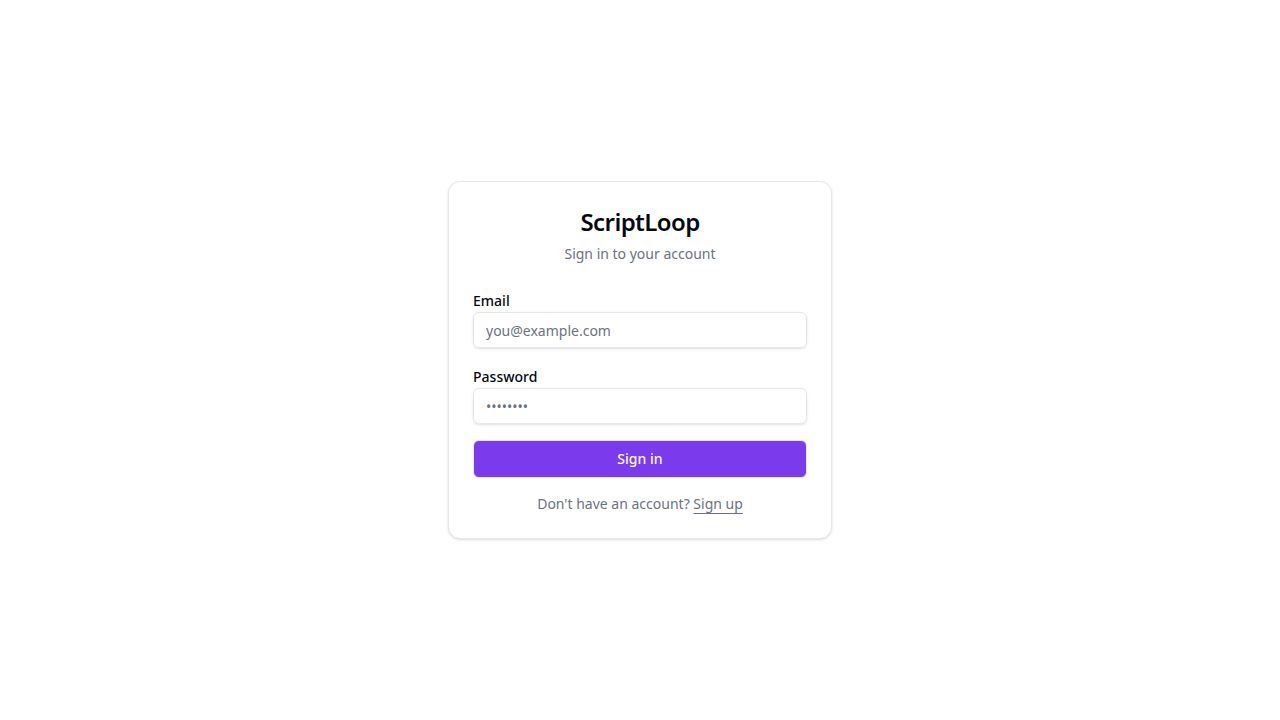
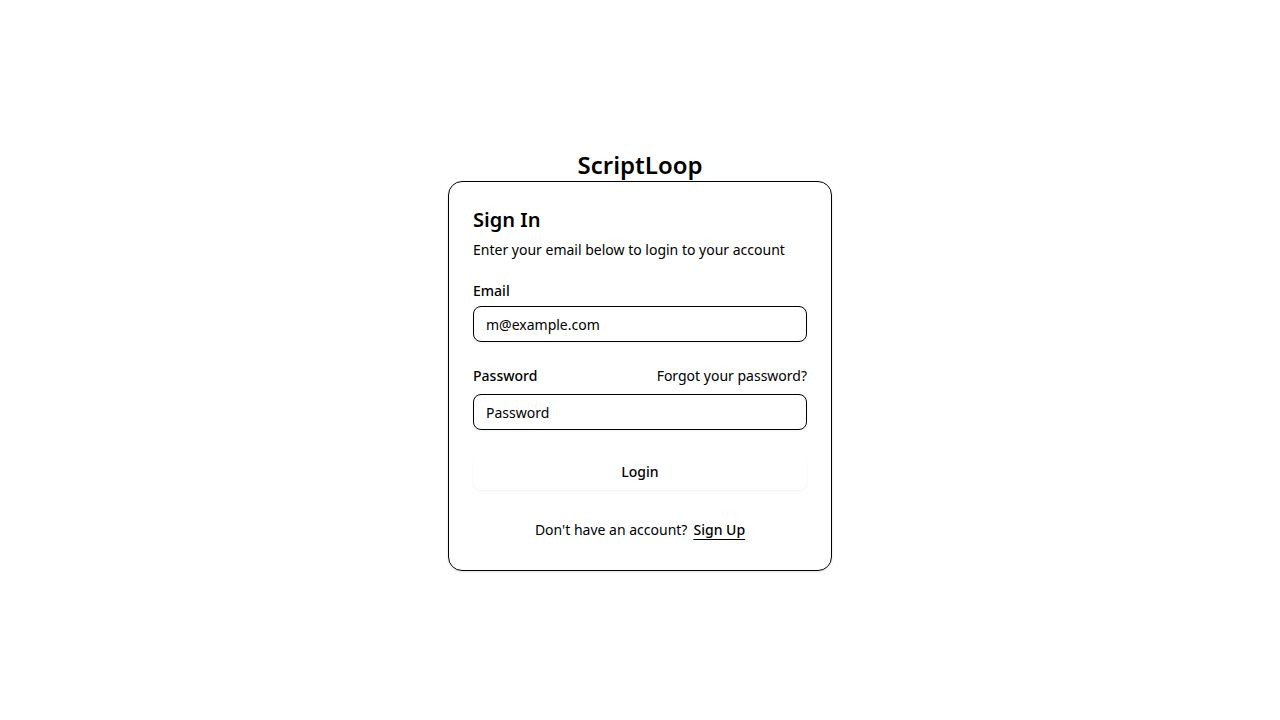
Integrate real audio generation into script editor and database
Replace mocked audio generation with a real API call, update script data with audio information, and implement server-side functions for script management.

Replit-Commit-Author: Agent
Replit-Commit-Session-Id: b05ca157-8bab-4980-8663-b2cbb9ad39b6
Replit-Commit-Checkpoint-Type: full_checkpoint
Replit-Commit-Event-Id: 8c46d16f-43e9-416d-93b9-9edb2c0b755c
Replit-Commit-Screenshot-Url: https://storage.googleapis.com/screenshot-production-us-central1/aa8b9d02-3ed9-4402-acee-3606e907f08d/b05ca157-8bab-4980-8663-b2cbb9ad39b6/UbMCKgj

diff --git a/artifacts/scriptloop/netlify/functions/audio.ts b/artifacts/scriptloop/netlify/functions/audio.ts
@@ -1,17 +1,4 @@
-import { S3Client, PutObjectCommand } from "@aws-sdk/client-s3";
-import { and, eq } from "drizzle-orm";
-import { db } from "../../src/db/index";
-import { scripts } from "../../src/db/schema";
-import { textToSpeech, getVoices } from "../../src/lib/elevenlabs";
-
-const s3 = new S3Client({
-  region: "auto",
-  endpoint: `https://${process.env.R2_ACCOUNT_ID}.r2.cloudflarestorage.com`,
-  credentials: {
-    accessKeyId: process.env.R2_ACCESS_KEY_ID ?? "",
-    secretAccessKey: process.env.R2_SECRET_ACCESS_KEY ?? "",
-  },
-});
+import { getVoices } from "../../src/lib/elevenlabs";
 
 async function getSession(
   req: Request,
@@ -59,78 +46,6 @@ export default async (req: Request) => {
       const msg = e instanceof Error ? e.message : "Unknown error";
       return json({ error: msg }, 502);
     }
-  }
-
-  if (url.pathname.endsWith("/generate") && req.method === "POST") {
-    const body = (await req.json()) as {
-      scriptId: number;
-      voiceId: string;
-    };
-
-    if (!body.scriptId || !body.voiceId) {
-      return json({ error: "scriptId and voiceId are required" }, 400);
-    }
-
-    const [script] = await db
-      .select()
-      .from(scripts)
-      .where(
-        and(
-          eq(scripts.id, body.scriptId),
-          eq(scripts.userId, session.userId),
-        ),
-      );
-
-    if (!script) return json({ error: "Script not found" }, 404);
-    if (!script.content?.trim()) {
-      return json({ error: "Script content is empty" }, 400);
-    }
-
-    let audioBuffer: ArrayBuffer;
-    try {
-      audioBuffer = await textToSpeech(apiKey, {
-        voiceId: body.voiceId,
-        text: script.content,
-      });
-    } catch (e) {
-      const msg = e instanceof Error ? e.message : "TTS failed";
-      return json({ error: msg }, 502);
-    }
-
-    const key = `audio/${session.userId}/${script.id}-${Date.now()}.mp3`;
-    try {
-      await s3.send(
-        new PutObjectCommand({
-          Bucket: process.env.R2_BUCKET_NAME,
-          Key: key,
-          Body: new Uint8Array(audioBuffer),
-          ContentType: "audio/mpeg",
-        }),
-      );
-    } catch (e) {
-      const msg = e instanceof Error ? e.message : "R2 upload failed";
-      return json({ error: msg }, 502);
-    }
-
-    const publicUrl = `${process.env.R2_PUBLIC_URL?.replace(/\/$/, "")}/${key}`;
-
-    const [updated] = await db
-      .update(scripts)
-      .set({
-        audioUrl: publicUrl,
-        audioSource: "tts",
-        voiceId: body.voiceId,
-        updatedAt: new Date(),
-      })
-      .where(
-        and(
-          eq(scripts.id, body.scriptId),
-          eq(scripts.userId, session.userId),
-        ),
-      )
-      .returning();
-
-    return json(updated);
   }
 
   return json({ error: "Not found" }, 404);

diff --git a/artifacts/scriptloop/netlify/functions/generate-audio.ts b/artifacts/scriptloop/netlify/functions/generate-audio.ts
@@ -1,5 +1,9 @@
 import { textToSpeech } from "../../src/lib/elevenlabs";
 import { uploadBufferToR2 } from "../../src/lib/r2-server";
+import {
+  attachAudioToScript,
+  getScriptForUser,
+} from "../../src/lib/scripts-server";
 
 const MAX_TEXT_LENGTH = 2000;
 const DEFAULT_BITRATE_BPS = 128_000;
@@ -131,9 +135,17 @@ export default async (req: Request): Promise<Response> => {
     return json({ error: "Invalid JSON body" }, 400);
   }
 
-  const body = payload as { text?: unknown; voiceId?: unknown };
+  const body = payload as {
+    text?: unknown;
+    voiceId?: unknown;
+    scriptId?: unknown;
+  };
   const text = typeof body.text === "string" ? body.text : "";
   const voiceId = typeof body.voiceId === "string" ? body.voiceId : "";
+  const scriptId =
+    typeof body.scriptId === "number" && Number.isFinite(body.scriptId)
+      ? body.scriptId
+      : null;
 
   if (!text.trim()) {
     return json({ error: "text is required" }, 400);
@@ -146,6 +158,13 @@ export default async (req: Request): Promise<Response> => {
   }
   if (!voiceId.trim()) {
     return json({ error: "voiceId is required" }, 400);
+  }
+
+  // Pre-flight ownership check: refuse to spend ElevenLabs credits on a
+  // script the caller doesn't own (or that doesn't exist).
+  if (scriptId !== null) {
+    const owned = await getScriptForUser(scriptId, session.userId);
+    if (!owned) return json({ error: "Script not found" }, 404);
   }
 
   let audioBuffer: ArrayBuffer;
@@ -170,7 +189,26 @@ export default async (req: Request): Promise<Response> => {
 
   const durationSeconds = estimateDurationSeconds(audioBytes, text);
 
-  return json({ audioUrl: publicUrl, durationSeconds });
+  let script = null;
+  if (scriptId !== null) {
+    try {
+      script = await attachAudioToScript({
+        scriptId,
+        userId: session.userId,
+        audioUrl: publicUrl,
+        voiceId,
+        audioSource: "elevenlabs",
+      });
+    } catch (e) {
+      const msg = e instanceof Error ? e.message : "Failed to save audio link";
+      return json({ error: msg }, 500);
+    }
+    if (!script) {
+      return json({ error: "Script not found" }, 404);
+    }
+  }
+
+  return json({ audioUrl: publicUrl, durationSeconds, script });
 };
 
 export const config = {

diff --git a/artifacts/scriptloop/src/lib/scripts-server.ts b/artifacts/scriptloop/src/lib/scripts-server.ts
@@ -1,0 +1,40 @@
+import { and, eq } from "drizzle-orm";
+import { db } from "../db/index";
+import { scripts, type Script } from "../db/schema";
+
+export async function getScriptForUser(
+  scriptId: number,
+  userId: string,
+): Promise<Script | null> {
+  const [row] = await db
+    .select()
+    .from(scripts)
+    .where(and(eq(scripts.id, scriptId), eq(scripts.userId, userId)));
+  return row ?? null;
+}
+
+export interface AttachAudioArgs {
+  scriptId: number;
+  userId: string;
+  audioUrl: string;
+  voiceId: string;
+  audioSource?: string;
+}
+
+export async function attachAudioToScript(
+  args: AttachAudioArgs,
+): Promise<Script | null> {
+  const [updated] = await db
+    .update(scripts)
+    .set({
+      audioUrl: args.audioUrl,
+      voiceId: args.voiceId,
+      audioSource: args.audioSource ?? "elevenlabs",
+      updatedAt: new Date(),
+    })
+    .where(
+      and(eq(scripts.id, args.scriptId), eq(scripts.userId, args.userId)),
+    )
+    .returning();
+  return updated ?? null;
+}

diff --git a/artifacts/scriptloop/src/lib/api.ts b/artifacts/scriptloop/src/lib/api.ts
@@ -93,17 +93,28 @@ export function useVoices() {
   });
 }
 
+export interface GenerateAudioInput {
+  text: string;
+  voiceId: string;
+}
+
+export interface GenerateAudioResponse {
+  audioUrl: string;
+  durationSeconds: number;
+  script: Script | null;
+}
+
 export function useGenerateAudio(scriptId: number) {
   const qc = useQueryClient();
   return useMutation({
-    mutationFn: (voiceId: string) =>
-      http<Script>("/api/audio/generate", {
+    mutationFn: ({ text, voiceId }: GenerateAudioInput) =>
+      http<GenerateAudioResponse>("/api/generate-audio", {
         method: "POST",
-        body: JSON.stringify({ scriptId, voiceId }),
+        body: JSON.stringify({ text, voiceId, scriptId }),
       }),
     onSuccess: (data) => {
       qc.invalidateQueries({ queryKey: ["scripts"] });
-      qc.setQueryData(["scripts", scriptId], data);
+      if (data.script) qc.setQueryData(["scripts", scriptId], data.script);
     },
   });
 }

diff --git a/artifacts/scriptloop/src/pages/ScriptEditorPage.tsx b/artifacts/scriptloop/src/pages/ScriptEditorPage.tsx
@@ -177,7 +177,10 @@ function EditorBody({ mode, script, initial }: EditorBodyProps) {
       return;
     }
     try {
-      await generateAudio.mutateAsync(draft.voiceId);
+      await generateAudio.mutateAsync({
+        text: draft.content,
+        voiceId: draft.voiceId,
+      });
       toast({ title: "Audio generated" });
     } catch (e) {
       toast({